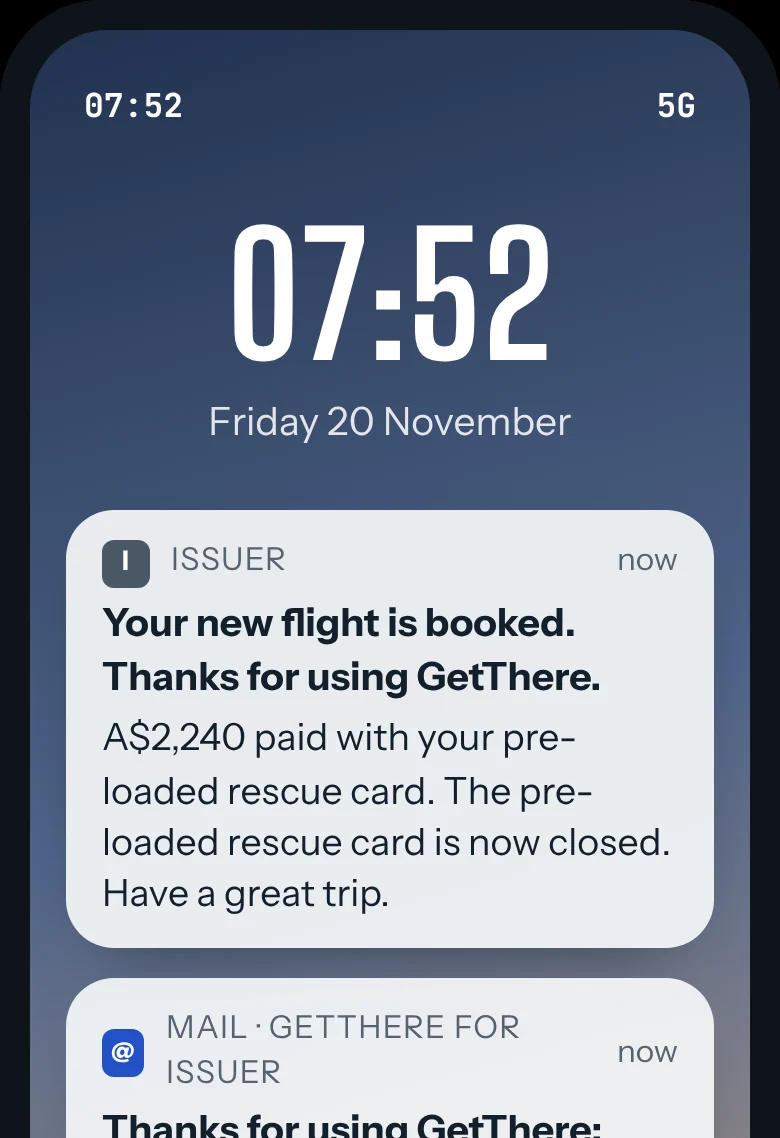
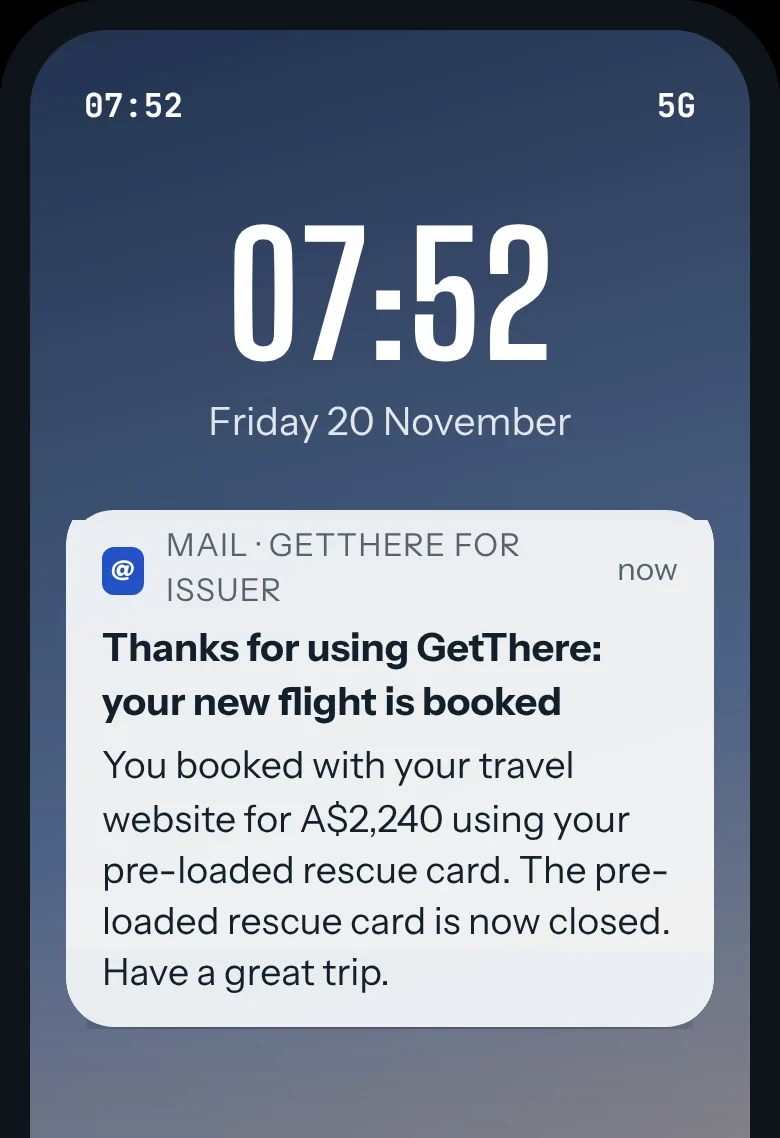
Issuers page: optional pushes, WhatsApp/email-only airport screens, Flight Delay Passes
- The product section says the bank sends one push and GetThere does the
  rest; steps 3 to 5 are labelled "Optional push".
- The 07:41 airport screen shows only GetThere's WhatsApp, the 07:52 one
  only GetThere's email (the bank's pushes are optional).
- "Fixed for you": 1.5% or 3% of Flight Delay Passes, not bookings.

Claude-Session: https://claude.ai/code/session_01LXtHbwsmAQGRyQq4ssyTF1

diff --git a/issuers.html b/issuers.html
@@ -84,13 +84,14 @@
   <div class="wrap">
     <p class="eyebrow">The product</p>
     <h2>Money for a new flight within a minute of the delay</h2>
+    <p class="lede">All your app has to send is one push after an airline charge. GetThere does the rest: the price, the payment, flight tracking, and the rescue card by WhatsApp and email. The pushes in steps 3 to 5 are optional.</p>
     <div class="carousel" aria-roledescription="carousel" aria-label="The cardholder's journey in your app">
       <div class="car-track">
         <figure class="slide"><img src="images/flow-1-nudge.webp?v=2" alt="Push from the card issuer after an airline payment: Just booked a flight?" loading="lazy"><figcaption><span class="step"><span class="dot">1</span>In your app</span><h3>Your app sends a nudge</h3><p>Right after an airline charge on her card, your app sends one notification: "Just booked a flight?" You choose which cards and charges get it.</p></figcaption></figure>
         <figure class="slide"><img src="images/flow-2-offer.webp?v=2" alt="GetThere's offer page inside the card issuer's app" loading="lazy"><figcaption><span class="step"><span class="dot">2</span>In your app</span><h3>Tap to find out</h3><p>The notification opens GetThere's offer page inside your app, in your colours. She forwards her booking email to get a price. There's nothing else to fill in.</p></figcaption></figure>
-        <figure class="slide"><img src="images/flow-3-bought.webp" alt="Push confirming the Flight Delay Pass is bought" loading="lazy"><figcaption><span class="step"><span class="dot">3</span>In your app</span><h3>Pass bought</h3><p>She pays about 7% of her fare for the Flight Delay Pass. Your app confirms the purchase, and you earn your share.</p></figcaption></figure>
-        <figure class="slide"><img src="images/flow-4-delay.webp" alt="Push saying the flight is late and the pre-loaded rescue card is ready" loading="lazy"><figcaption><span class="step"><span class="dot alert">4</span>In your app</span><h3>Delay hits</h3><p>Her flight is 3+ hours late. Your app alerts her, and GetThere sends her a pre-loaded rescue card worth 1.5 times her fare, on WhatsApp and by email.</p></figcaption></figure>
-        <figure class="slide"><img src="images/flow-5-rebooked.webp" alt="Push thanking her after the new flight is booked" loading="lazy"><figcaption><span class="step"><span class="dot">5</span>In your app</span><h3>Rebooked</h3><p>She books a new flight on any airline with the rescue card. Your app says thanks, and she remembers which card got her home.</p></figcaption></figure>
+        <figure class="slide"><img src="images/flow-3-bought.webp" alt="Push confirming the Flight Delay Pass is bought" loading="lazy"><figcaption><span class="step"><span class="dot">3</span>Optional push</span><h3>Pass bought</h3><p>She pays about 7% of her fare for the Flight Delay Pass, and you earn your share. GetThere emails her the confirmation; a push from your app is a nice extra.</p></figcaption></figure>
+        <figure class="slide"><img src="images/flow-4-delay.webp" alt="Push saying the flight is late and the pre-loaded rescue card is ready" loading="lazy"><figcaption><span class="step"><span class="dot alert">4</span>Optional push</span><h3>Delay hits</h3><p>Her flight is 3+ hours late. GetThere sends her a pre-loaded rescue card worth 1.5 times her fare, on WhatsApp and by email. An alert from your app is optional.</p></figcaption></figure>
+        <figure class="slide"><img src="images/flow-5-rebooked.webp" alt="Push thanking her after the new flight is booked" loading="lazy"><figcaption><span class="step"><span class="dot">5</span>Optional push</span><h3>Rebooked</h3><p>She books a new flight on any airline with the rescue card, and GetThere emails her the receipt. A thank-you from your app is optional, but it reminds her which card got her home.</p></figcaption></figure>
       </div>
     </div>
   </div>
@@ -116,9 +117,9 @@
     <p class="eyebrow">Friday, at the airport</p>
     <h2>11 minutes from the delay to a new booking</h2>
     <div class="phones three">
-      <figure><img src="images/airport-0741.webp" alt="Lock screen at 07:41 with the delay alert" loading="lazy"><figcaption><span class="time late">07:41</span><b>The delay hits</b>Your notification is the first thing she sees. GetThere sends the pre-loaded rescue card on WhatsApp and email.</figcaption></figure>
+      <figure><img src="images/airport-0741.webp?v=2" alt="Lock screen at 07:41: WhatsApp message from GetThere with the delay and the pre-loaded rescue card" loading="lazy"><figcaption><span class="time late">07:41</span><b>The delay hits</b>GetThere's WhatsApp is the first thing she sees, with her pre-loaded rescue card. The same card comes by email too.</figcaption></figure>
       <figure><img src="images/airport-0744.webp" alt="Pre-loaded rescue card page with A$2,325 to spend" loading="lazy"><figcaption><span class="time">07:44</span><b>Her rescue card is ready</b>$2,325 to spend once, on flights, on any airline or travel site.</figcaption></figure>
-      <figure><img src="images/airport-0752.webp" alt="Lock screen at 07:52: new flight booked" loading="lazy"><figcaption><span class="time">07:52</span><b>She rebooks herself</b>The other passengers in the queue haven't heard anything yet.</figcaption></figure>
+      <figure><img src="images/airport-0752.webp?v=2" alt="Lock screen at 07:52: GetThere email saying the new flight is booked" loading="lazy"><figcaption><span class="time">07:52</span><b>She rebooks herself</b>The other passengers in the queue haven't heard anything yet.</figcaption></figure>
     </div>
   </div>
 </section>
@@ -201,7 +202,7 @@
     <p class="eyebrow">Your risk</p>
     <h2>Your share stays fixed, whatever the delay rate</h2>
     <div class="grid3" style="margin-top:28px">
-      <div class="tile"><h3>Fixed for you</h3><p class="muted">Your 15% is a fixed share of each fee, so it doesn't change with how often flights are delayed. On $2B of airfare it's $1.01M a year whether 1.5% or 3% of bookings end with a rescue card.</p></div>
+      <div class="tile"><h3>Fixed for you</h3><p class="muted">Your 15% is a fixed share of each fee, so it doesn't change with how often flights are delayed. On $2B of airfare it's $1.01M a year whether 1.5% or 3% of Flight Delay Passes end with a rescue card.</p></div>
       <div class="tile"><h3>GetThere pays for every rescue card</h3><p class="muted">All the money on rescue cards comes from GetThere, never from you.</p></div>
       <div class="tile"><h3>Priced flight by flight</h3><p class="muted">Each flight's track record on that date, weather and airport news.</p></div>
     </div>
